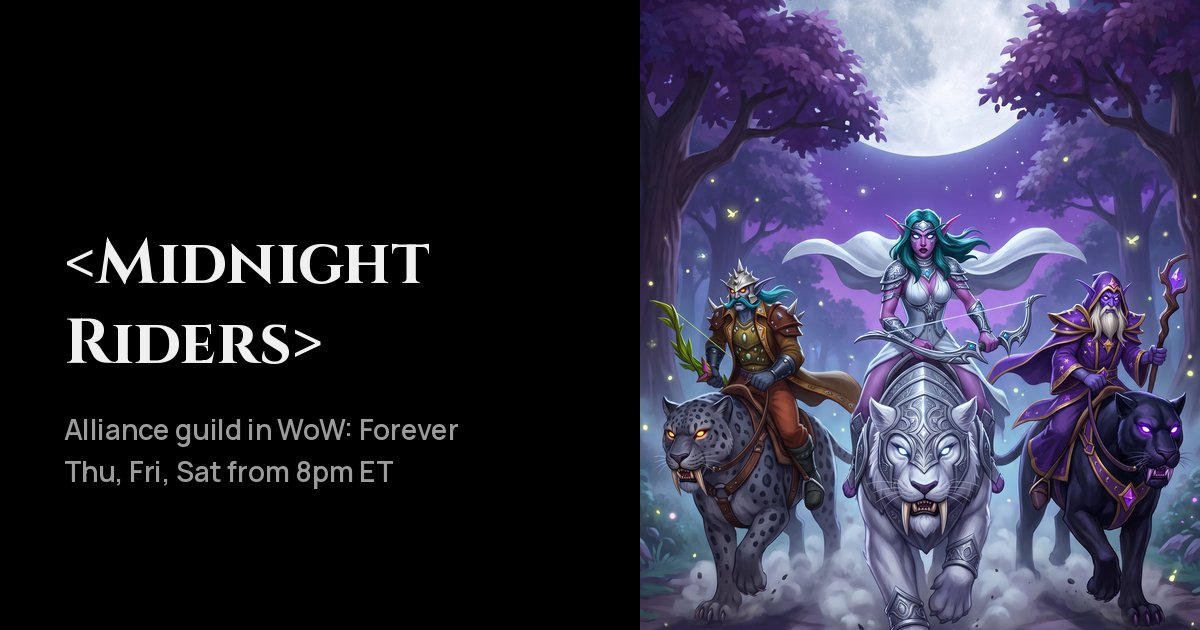
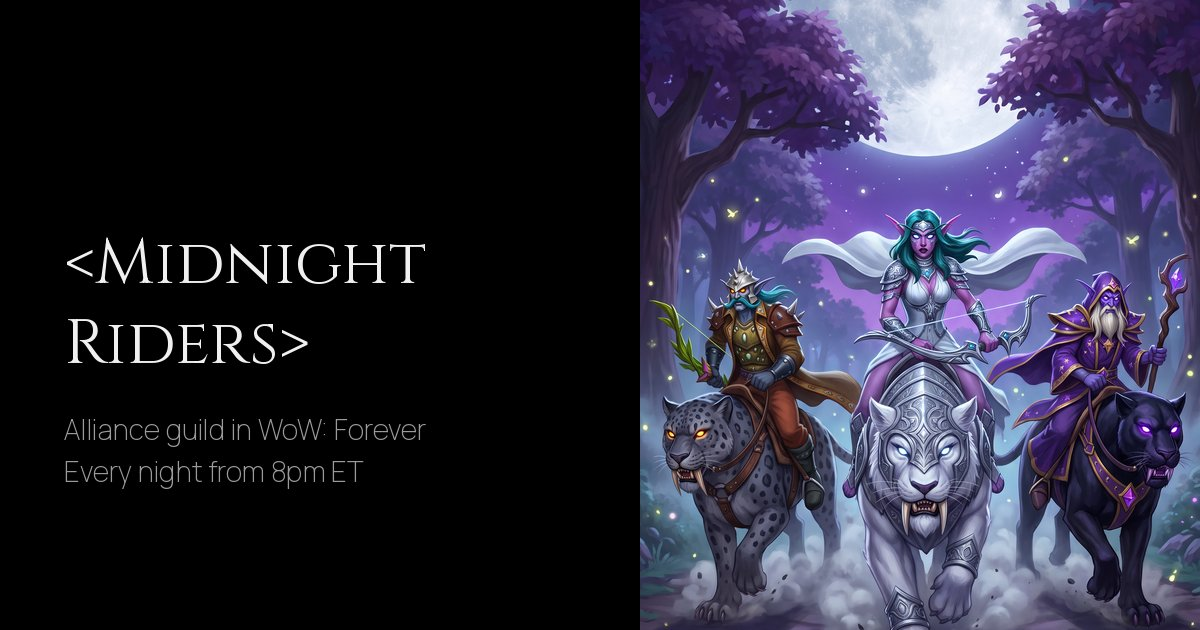
Daily schedules: one every-night card, no days box; Midnight Riders ride every night

Changed region(s): [[0.0617, 0.6635, 0.4008, 0.7841], [0.0617, 0.3619, 0.37, 0.4524], [0.0617, 0.4825, 0.2775, 0.573]]

diff --git a/src/app.js b/src/app.js
@@ -176,21 +176,23 @@
     if (clock) {
       const target = live ? live.t + len : next?.t;
       const left = Math.max(0, Math.floor(((target ?? now) - now) / 1000));
-      unit('d').textContent = pad(Math.floor(left / 86400));
-      unit('h').textContent = pad(Math.floor((left % 86400) / 3600));
+      const d = unit('d');
+      if (d) d.textContent = pad(Math.floor(left / 86400));
+      unit('h').textContent = pad(Math.floor((d ? left % 86400 : left) / 3600));
       unit('m').textContent = pad(Math.floor((left % 3600) / 60));
       unit('s').textContent = pad(left % 60);
       clock.classList.toggle('live', Boolean(live));
     }
     document.querySelectorAll('.night').forEach((card) => {
-      const upcoming = all.find((s) => s.night.day === card.dataset.day && s.t + len > now);
-      card.classList.toggle('live', Boolean(live && live.night.day === card.dataset.day));
+      const mineCard = (s) => card.dataset.day === '*' || s.night.day === card.dataset.day;
+      const upcoming = all.find((s) => mineCard(s) && s.t + len > now);
+      card.classList.toggle('live', Boolean(live && mineCard(live)));
       const out = card.querySelector('[data-local]');
-      const text = upcoming ? (mine === tz ? 'Same as your time' : `Your time: ${local.format(upcoming.t)}`) : '';
+      const text = upcoming ? (mine === tz ? 'Same as your time' : `Your time: ${(card.dataset.day === '*' ? clockFmt : local).format(upcoming.t)}`) : '';
       if (out && out.textContent !== text) out.textContent = text;
     });
     const short = live ? 'Riding now' : next ? `Next ride in ${span(next.t - now)}` : 'See guild nights';
-    const long = live ? `Riding now, until ${clockFmt.format(live.t + len)} your time. Join voice on Discord.` : next ? `Next ride: ${next.night.day}. Counting down` : '';
+    const long = live ? `Riding now, until ${clockFmt.format(live.t + len)} your time. Join voice on Discord.` : next ? (sched.isDaily ? 'Next ride: tonight. Counting down' : `Next ride: ${next.night.day}. Counting down`) : '';
     document.querySelectorAll('[data-status]').forEach((el) => { if (el.textContent !== short) el.textContent = short; });
     document.querySelectorAll('[data-status-long]').forEach((el) => { if (long && el.textContent !== long) el.textContent = long; });
   }

diff --git a/src/style.css b/src/style.css
@@ -100,6 +100,7 @@ ul, ol { list-style: none; margin: 0; padding: 0; }
 .section-head p { color: var(--muted); }
 .status { color: var(--accent) !important; font-weight: 600; }
 .grid { display: grid; gap: var(--s4); }
+.grid-1 { grid-template-columns: 1fr; }
 .grid-2 { grid-template-columns: repeat(2, 1fr); }
 .grid-3 { grid-template-columns: repeat(3, 1fr); }
 @media (max-width: 860px) { .grid-2, .grid-3 { grid-template-columns: 1fr; } .section-head h2 { font-size: 36px; line-height: 40px; } }
@@ -121,6 +122,11 @@ ul, ol { list-style: none; margin: 0; padding: 0; }
 .night-day { display: flex; align-items: center; gap: var(--s2); color: var(--text) !important; font-weight: 600; margin-top: 0 !important; }
 .night-time { font: 600 30px/36px "Manrope", sans-serif; color: var(--text) !important; margin-top: var(--s3) !important; }
 .night-local { font-size: 14px; line-height: 20px; min-height: 20px; }
+.night-daily { display: grid; grid-template-columns: auto auto 1fr; align-items: center; column-gap: var(--s6); row-gap: var(--s1); }
+.night-daily .night-day { grid-column: 1 / -1; }
+.night-daily .night-time { margin-top: 0 !important; }
+.night-daily .night-plan { grid-column: 3; grid-row: 2 / span 2; margin-top: 0; max-width: 480px; justify-self: end; text-align: right; }
+@media (max-width: 860px) { .night-daily { display: block; } .night-daily .night-plan { text-align: left; margin-top: var(--s2); } }
 .night.live { border-color: var(--accent); box-shadow: 0 0 48px color-mix(in srgb, var(--accent) 28%, transparent); }
 .night.live .night-day::after { content: "Riding now"; margin-left: auto; font-size: 12px; line-height: 16px; color: var(--bg); background: var(--accent); padding: 2px var(--s2); border-radius: 9999px; }
 

diff --git a/README.md b/README.md
@@ -37,7 +37,7 @@ Every later edit to `guild.json` or `images/` publishes itself the same way.
 | `site` | Address, page title, description and share picture. |
 | `hero` | The line above the title, the sentence under it, and the big picture. |
 | `discord` | Your invite link, the channel where people apply, and the button text. |
-| `schedule` | Time zone ([IANA name](https://en.wikipedia.org/wiki/List_of_tz_database_time_zones), e.g. `Europe/London`), its short label, how many hours a night runs, and each night's day, start time (24 hour) and plan. |
+| `schedule` | Time zone ([IANA name](https://en.wikipedia.org/wiki/List_of_tz_database_time_zones), e.g. `Europe/London`), its short label and how many hours a night runs. Then either `daily` (`{"start": "20:00", "plan": "…"}`, for guilds that ride every night) or `nights`, a list of set nights, each with its day, start time (24 hour) and plan. |
 | `tagline` | The big sentence that lights up word by word as you scroll. |
 | `perks`, `steps` | Cards with an icon, a title and a sentence. Icon names are the files in `src/icons/` (from [Phosphor](https://phosphoricons.com)); add any Phosphor icon there to use it. |
 | `leaders` | Name, role, race, class (coloured automatically), picture, a short bio and links. |
